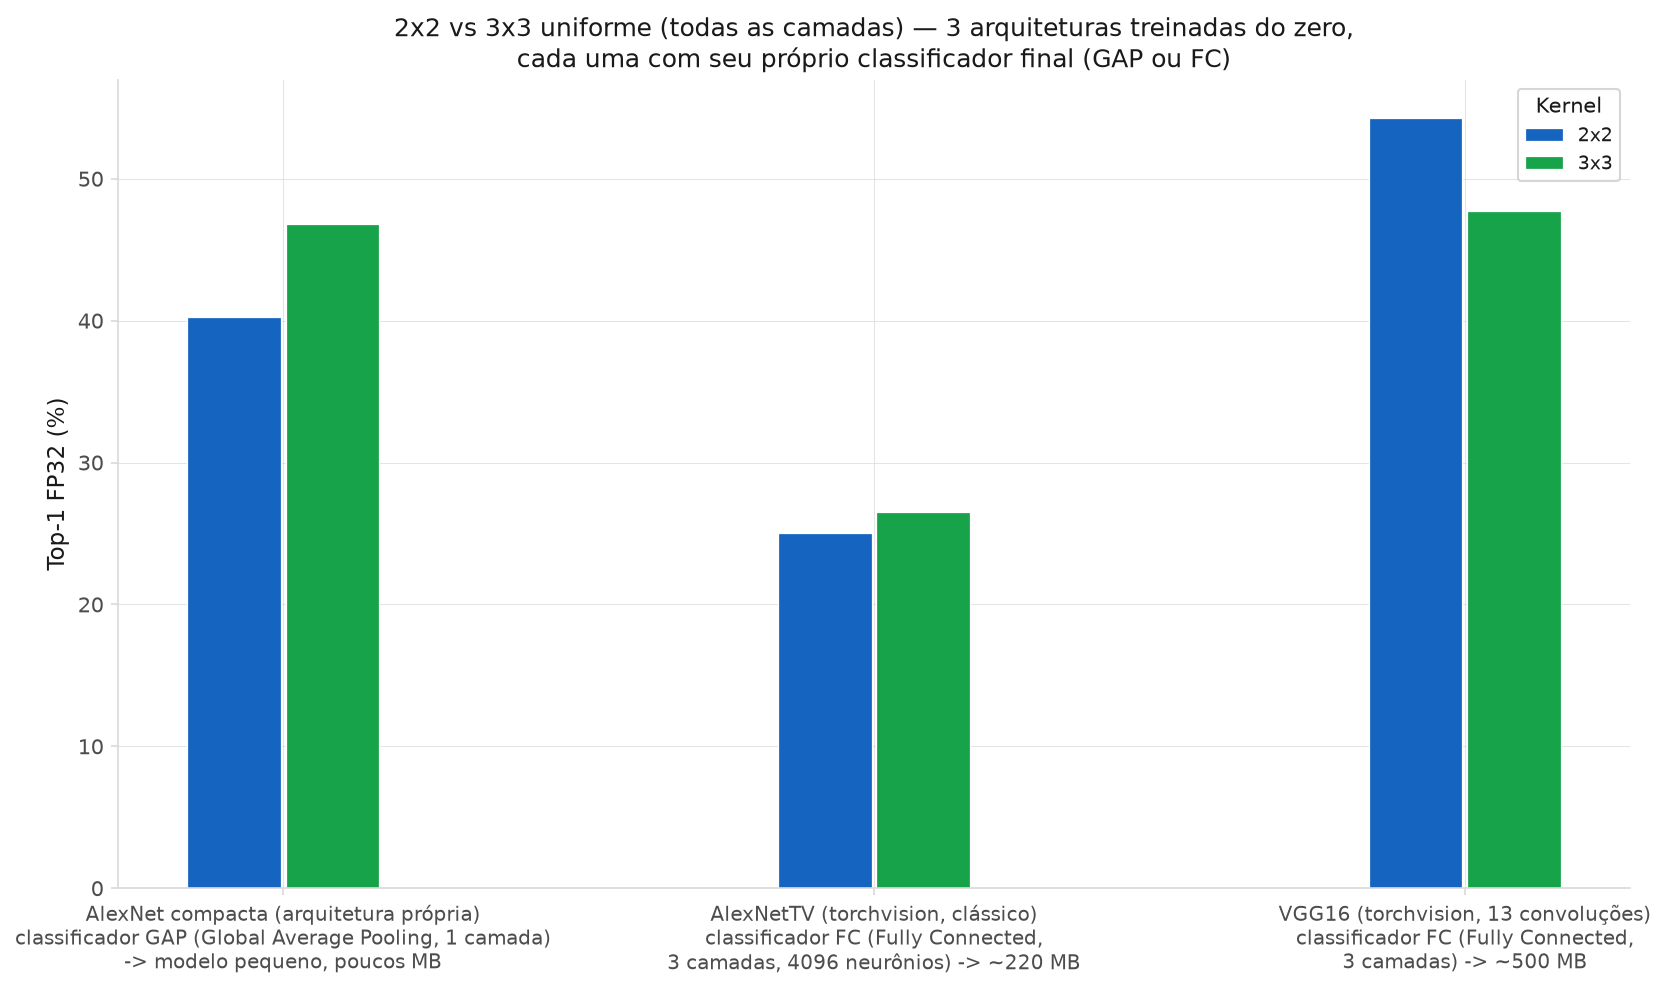
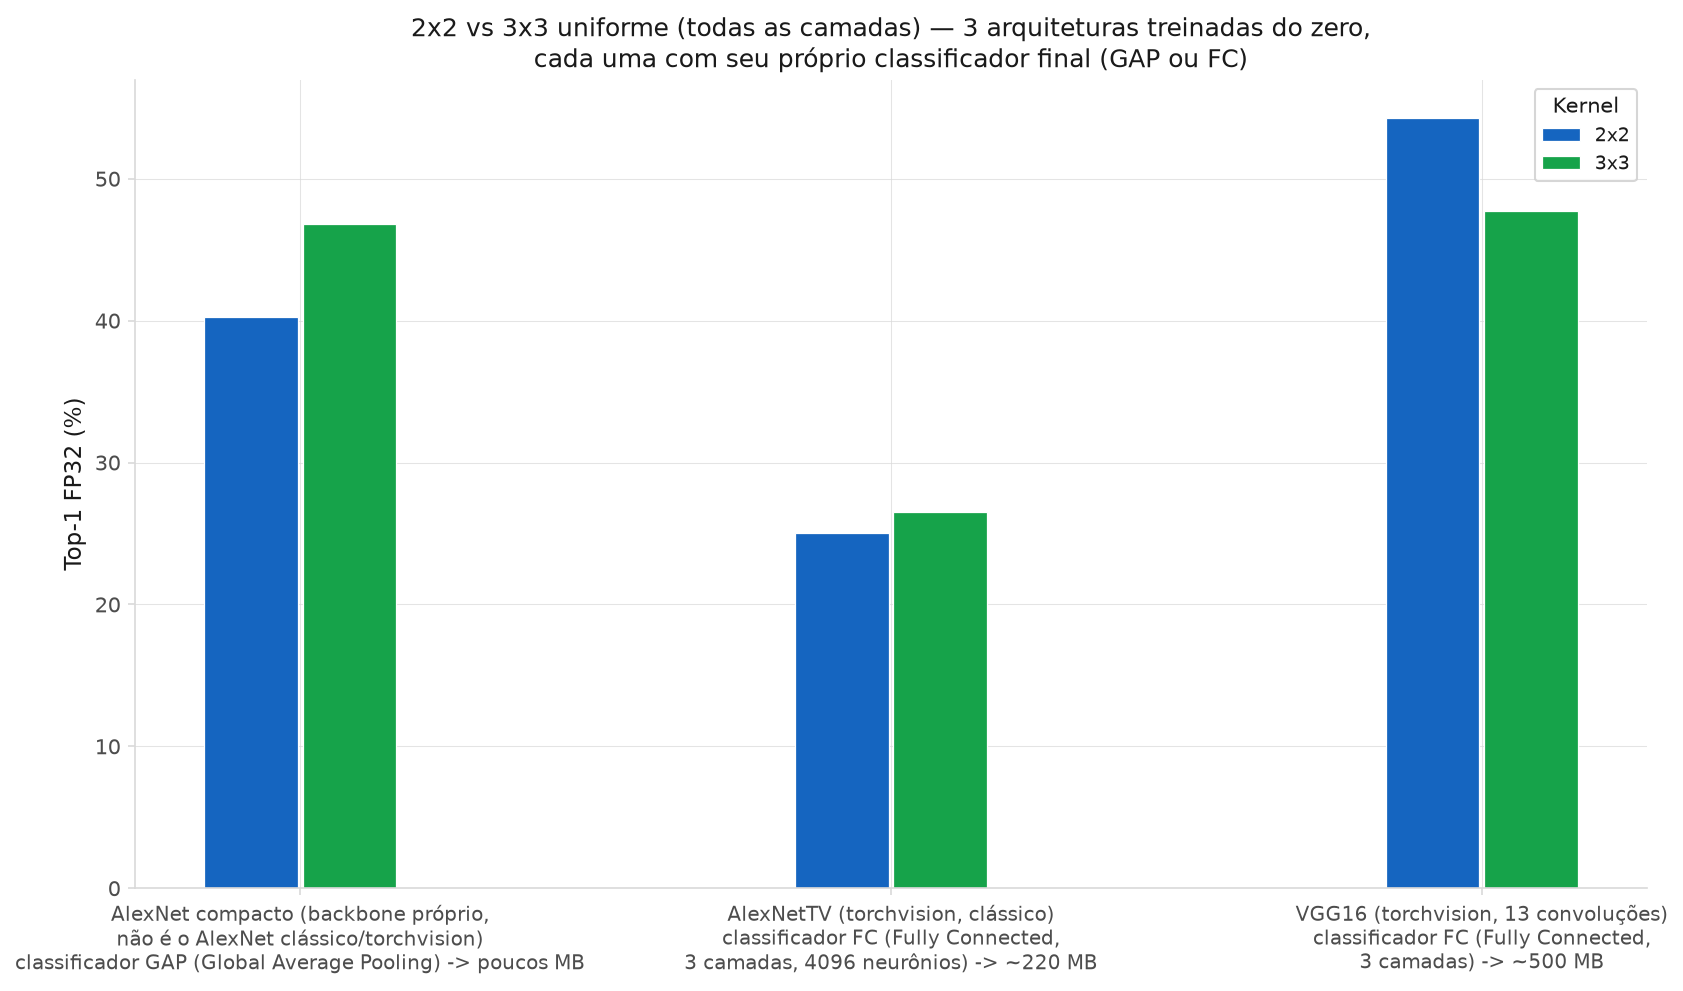
polish: fig 01 note closer to its cluster, fig 05 AlexNet label more explicit
Fig 01's "+5 variantes" text sat far from the TV-FC cluster it describes
(opposite side of the chart); moved it directly above that cluster so
proximity alone makes the association obvious.

Fig 05's AlexNet x-tick label said "AlexNet compacta" (wrong gender vs.
"AlexNet compacto" used everywhere else) and didn't say GAP in full or
that it's not the torchvision backbone; now explicit on both.

diff --git a/scripts/phase11/plot_kernel_comparison.py b/scripts/phase11/plot_kernel_comparison.py
@@ -102,7 +102,7 @@ def fig_overview(models):
         dy = manual_dy.get(m["key"], 6 if i % 2 == 0 else -11)
         ax.annotate(tag, (fp32_size, fp32_top1), xytext=(5, dy), textcoords="offset points",
                     fontsize=7.5, color=color)
-    ax.text(11, 33, "+ 5 variantes TV-FC 2x2/3x3/misto\n(quase mesmo tamanho e acurácia --\nver gráfico 03)",
+    ax.text(60, 30, "+ 5 variantes TV-FC 2x2/3x3/misto\n(quase mesmo tamanho e acurácia --\nver gráfico 03)",
             fontsize=7.5, color="#4d4d4d", ha="left")
     ax.set_xscale("log")
     ax.margins(x=0.06, y=0.14)  # keep every marker/annotation clear of the axes edges
@@ -153,7 +153,7 @@ def fig_2x2_vs_3x3(models):
     # chart stands on its own without needing charts 02-04 open alongside it. Positions
     # are spread out (not 0,1,2) so the 2-line descriptions have room, not overlap.
     family_desc = {
-        "AlexNet compacto": "AlexNet compacta (arquitetura própria)\nclassificador GAP (Global Average Pooling, 1 camada)\n-> modelo pequeno, poucos MB",
+        "AlexNet compacto": "AlexNet compacto (backbone próprio,\nnão é o AlexNet clássico/torchvision)\nclassificador GAP (Global Average Pooling) -> poucos MB",
         "AlexNetTV": "AlexNetTV (torchvision, clássico)\nclassificador FC (Fully Connected,\n3 camadas, 4096 neurônios) -> ~220 MB",
         "VGG16": "VGG16 (torchvision, 13 convoluções)\nclassificador FC (Fully Connected,\n3 camadas) -> ~500 MB",
     }
